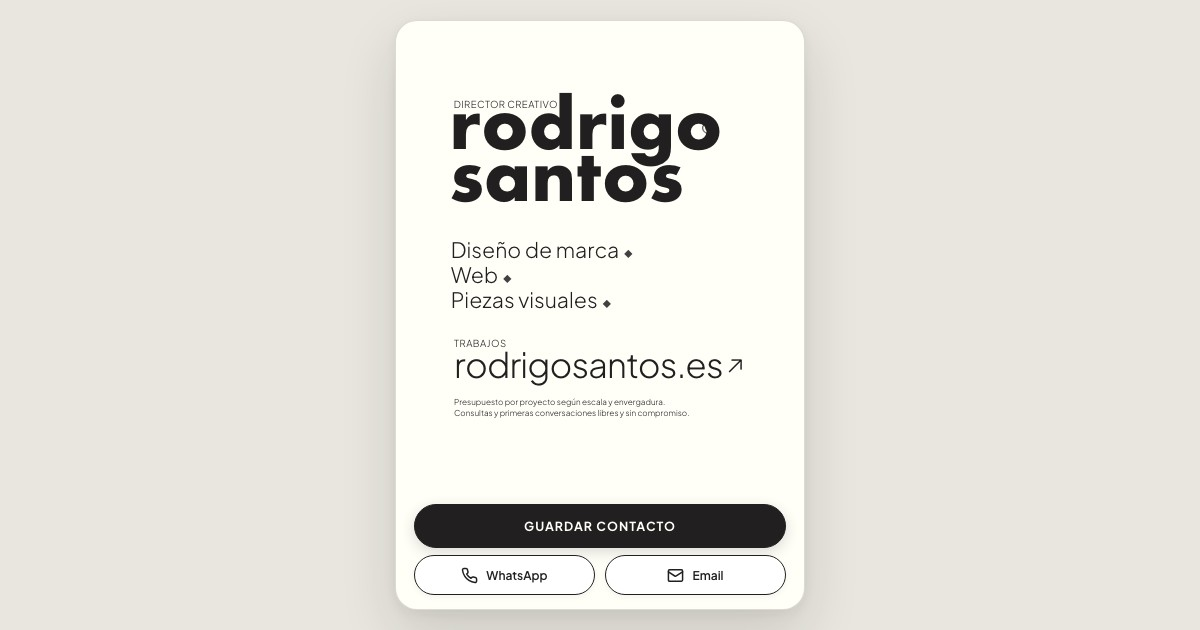
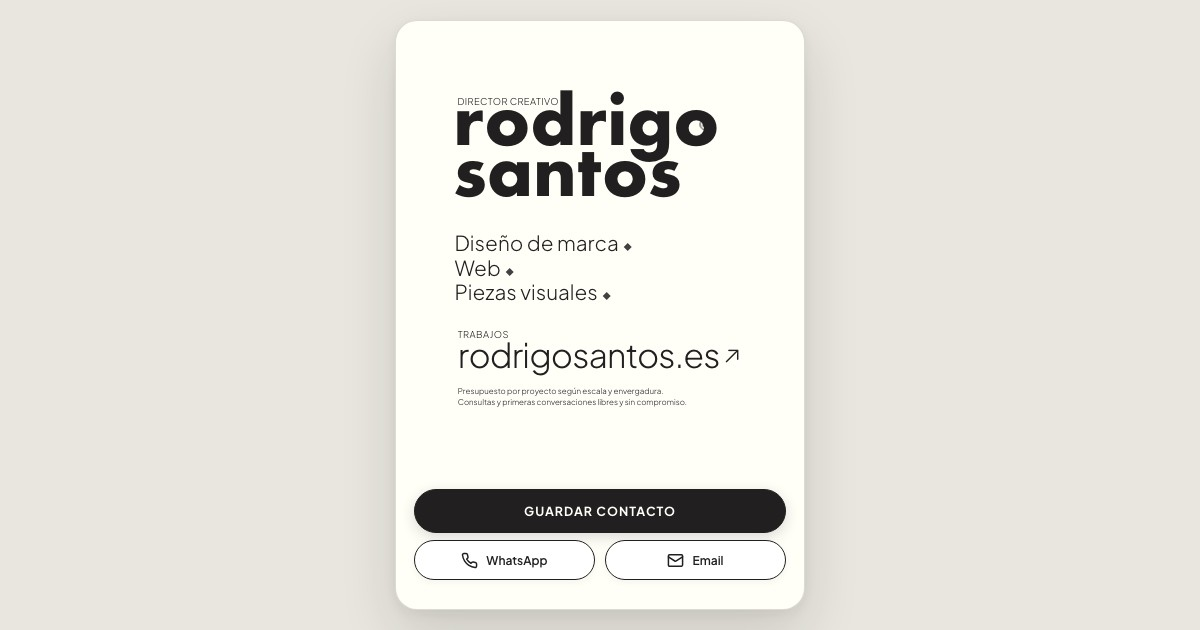
style(vcard): raise action buttons higher from bottom of card

Changed region(s): [[0.3392, 0.754, 0.6783, 0.9349], [0.37, 0.3619, 0.6167, 0.6635], [0.37, 0.1508, 0.6167, 0.3317]]

diff --git a/src/components/VirtualCard/VirtualCard.css b/src/components/VirtualCard/VirtualCard.css
@@ -51,7 +51,7 @@
   flex-direction: column;
   justify-content: space-between;
   align-items: center;
-  padding: clamp(10px, 1.8vh, 18px) clamp(12px, 3.2vw, 18px) clamp(12px, 2.2vh, 18px);
+  padding: clamp(8px, 1.6vh, 16px) clamp(12px, 3.2vw, 18px) clamp(18px, 3.4vh, 28px);
   border: 1.2px solid rgba(34, 31, 32, 0.16);
   border-radius: clamp(14px, 3.5vw, 22px);
   box-shadow: 0 10px 32px rgba(34, 31, 32, 0.08), 0 2px 8px rgba(34, 31, 32, 0.04);
@@ -179,7 +179,8 @@
   display: flex;
   flex-direction: column;
   gap: clamp(7px, 1.2vh, 10px);
-  margin-top: 6px;
+  margin-top: 4px;
+  margin-bottom: clamp(6px, 1.2vh, 12px);
 }
 
 .vcard-action-btn {
